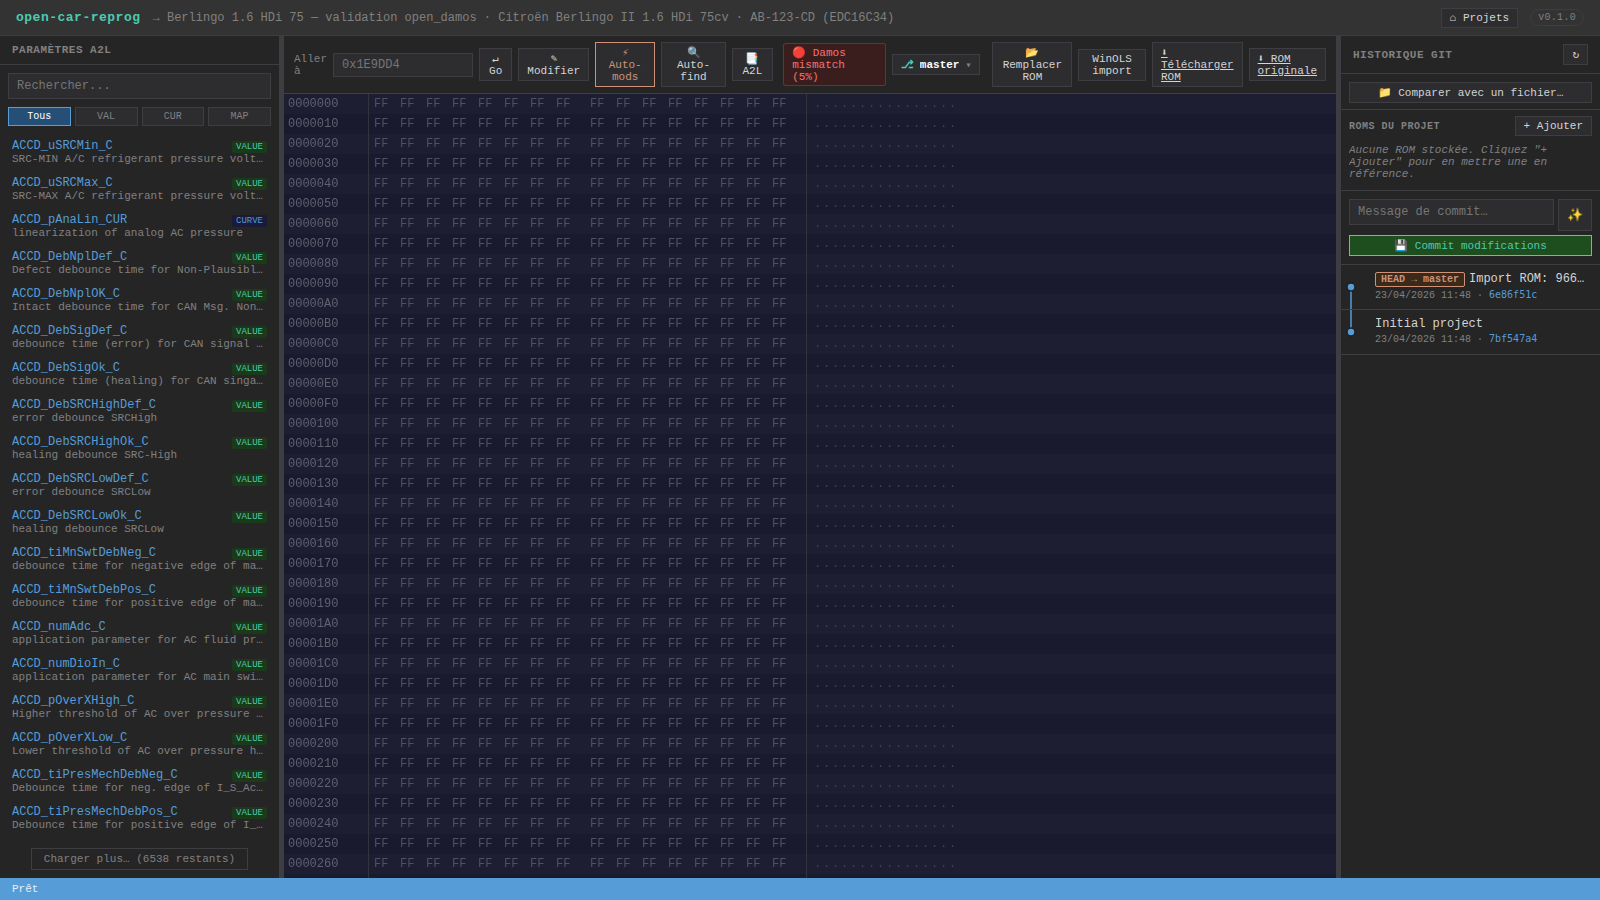
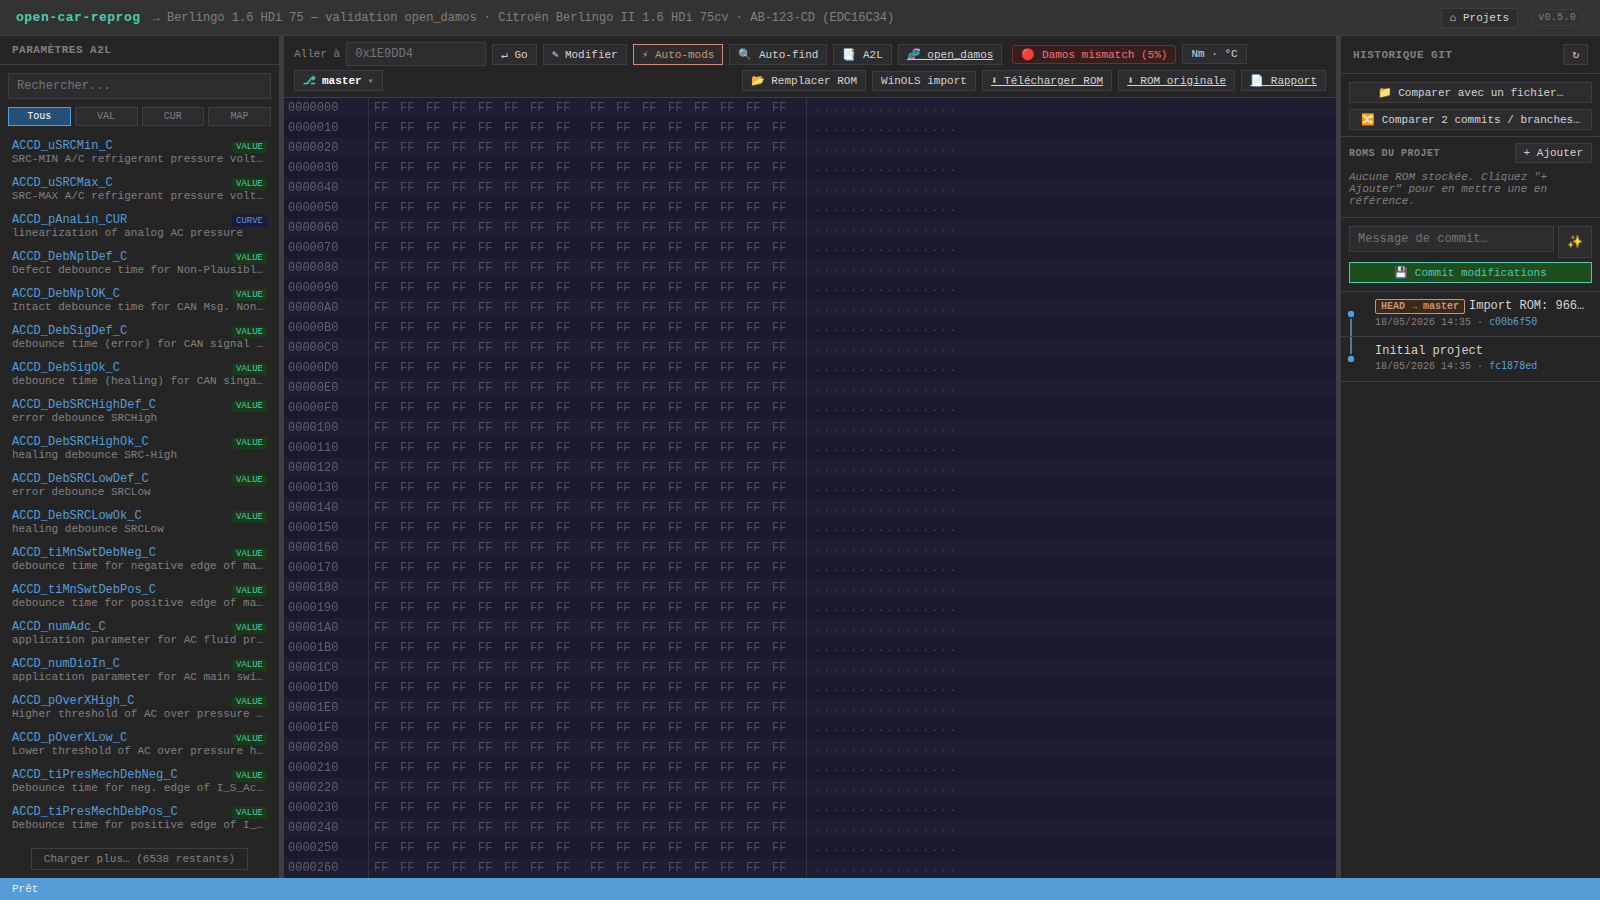
feat: détection variante ROM (75ch/90ch/110ch) + garde-fou Stage 1
- GET /api/projects/:id/rom/variant : détecte DV6BTED4 75ch / DV6TED4 90ch
  / DV6TED4 110ch via la moyenne de EngPrt_trqAPSLim_MAP (open_damos first)
- Modal Auto-mods : banner variante + safeNote dans Stage 1 (ex. "≤ +8% recommandé")
- Border orange si % Stage 1 dépasse safePct ; confirm() bloquant si on passe outre
- Test Playwright : tests/rom-variant-detection.test.js (6 assertions, PASS)

diff --git a/tests/rom-variant-detection.test.js b/tests/rom-variant-detection.test.js
@@ -1,0 +1,153 @@
+// Test ROM variant detection (75ch / 90ch / 110ch) and Stage 1 safety guard.
+// Verifies:
+//   1. /api/projects/:id/rom/variant → 75ch for Berlingo 9663944680.Bin
+//   2. Auto-mods modal shows variant banner ("DV6BTED4 55kW 75ch")
+//   3. Stage 1 confirm() dialog fires when % > safePct (8%)
+//   4. /api/projects/:id/dtc-group → Supprimer / Restaurer round-trip
+//
+// Usage: PORT=3002 node server.js & ; node tests/rom-variant-detection.test.js
+
+const { chromium } = require('playwright');
+const fs = require('fs');
+const path = require('path');
+const assert = require('assert');
+
+const URL = process.env.APP_URL || 'http://localhost:3002';
+const ROM = path.join(__dirname, '..', 'ressources', 'edc16c34', '9663944680.Bin');
+const SHOTS = path.join(__dirname, 'screenshots');
+if (!fs.existsSync(SHOTS)) fs.mkdirSync(SHOTS, { recursive: true });
+
+async function shot(page, name) {
+  const p = path.join(SHOTS, `rom-variant-${name}.png`);
+  await page.screenshot({ path: p });
+  console.log('  📸', name);
+}
+
+(async () => {
+  let projectId = null;
+  const browser = await chromium.launch();
+  const ctx = await browser.newContext({ viewport: { width: 1440, height: 900 } });
+  const page = await ctx.newPage();
+  page.on('console', msg => { if (msg.type() === 'error') console.warn('  [browser]', msg.text()); });
+
+  try {
+    // ── 1. Setup project ──────────────────────────────────────────────────────
+    const r1 = await page.request.post(URL + '/api/projects', {
+      data: { name: 'Berlingo variant-detect test', ecu: 'edc16c34', vehicle: 'Citroën Berlingo 1.6 HDi 75ch' }
+    });
+    const proj = await r1.json();
+    projectId = proj.id;
+    await page.request.post(URL + '/api/projects/' + projectId + '/rom', {
+      multipart: { rom: { name: '9663944680.Bin', mimeType: 'application/octet-stream', buffer: fs.readFileSync(ROM) } }
+    });
+    console.log('  ✓ Project + ROM importé', projectId);
+
+    // ── 2. /rom/variant API ───────────────────────────────────────────────────
+    const vRes = await page.request.get(URL + '/api/projects/' + projectId + '/rom/variant');
+    assert(vRes.ok(), `variant endpoint HTTP ${vRes.status()}`);
+    const vData = await vRes.json();
+    console.log('  Variant API:', JSON.stringify(vData));
+    assert.strictEqual(vData.variant, '75ch', `Expected 75ch, got ${vData.variant}`);
+    assert.strictEqual(vData.safePct, 8, `Expected safePct=8, got ${vData.safePct}`);
+    assert(vData.confidence === 'high', `Expected confidence=high`);
+    console.log('  ✓ Variant 75ch détecté, safePct=8');
+
+    // ── 3. Auto-mods modal — banner variant ───────────────────────────────────
+    await page.goto(URL + '/#/project/' + projectId);
+    await page.waitForSelector('#hex-canvas', { timeout: 6000 });
+    await page.waitForTimeout(1500);
+
+    await page.click('#btn-auto-mods');
+    await page.waitForSelector('#auto-mods-modal', { timeout: 4000 });
+    await page.waitForTimeout(2000); // laisser _detectVariant() arriver
+
+    await shot(page, '01-modal-open');
+
+    const banner = await page.$('#am-variant-banner');
+    assert(banner, '#am-variant-banner missing in DOM');
+    const bannerText = await banner.textContent();
+    console.log('  Banner text:', bannerText.trim());
+    assert(/75ch|DV6BTED4/i.test(bannerText), `Banner should mention 75ch/DV6BTED4, got: "${bannerText}"`);
+    assert(/\+8%/.test(bannerText), `Banner should mention +8%, got: "${bannerText}"`);
+    console.log('  ✓ Variant banner affiché correctement');
+
+    // ── 4. Stage 1 safeNote text ──────────────────────────────────────────────
+    const safeNote = await page.$('#am-s1-safe-note');
+    assert(safeNote, '#am-s1-safe-note missing');
+    const safeText = await safeNote.textContent();
+    console.log('  safeNote text:', safeText.trim());
+    assert(/8%|DV6BTED4/i.test(safeText), `safeNote should mention 8% or DV6BTED4, got: "${safeText}"`);
+    console.log('  ✓ safeNote variante visible');
+
+    // Wait for _loadStage1Deltas to settle (it runs after _detectVariant)
+    // Stage 1 delta sets all inputs to 0 (ROM is stock). We need to fill AFTER.
+    await page.waitForFunction(() => {
+      const el = document.querySelector('#s1-pct-AccPed_trqEngHiGear_MAP');
+      return el && el.value !== undefined; // element exists and delta has run
+    }, { timeout: 5000 });
+    await page.waitForTimeout(500); // give stage1-delta fetch a moment to write
+
+    // ── 5. Warning border when % > safePct ───────────────────────────────────
+    const firstPctInput = await page.$('#s1-pct-AccPed_trqEngHiGear_MAP');
+    assert(firstPctInput, '#s1-pct-AccPed_trqEngHiGear_MAP not found');
+    // Set value to 20 via evaluate to avoid native input validation interfering
+    await firstPctInput.evaluate(el => { el.value = '20'; });
+    await firstPctInput.dispatchEvent('input');
+    await page.waitForTimeout(200);
+    const borderColor = await firstPctInput.evaluate(el => el.style.borderColor);
+    console.log('  borderColor at 20%:', borderColor);
+    assert(borderColor && borderColor !== '', 'Border should change when % > safePct');
+    console.log('  ✓ Border warning à 20% (dépasse safePct=8)');
+
+    // Verify value is actually 20 in JS context
+    const inputVal = await firstPctInput.evaluate(el => el.value);
+    assert.strictEqual(inputVal, '20', `Input value should be 20, got ${inputVal}`);
+
+    // ── 6. Confirm dialog when applying with high % ───────────────────────────
+    let confirmMsg = null;
+    page.once('dialog', async dialog => {
+      confirmMsg = dialog.message();
+      console.log('  ✓ Confirm dialog :', confirmMsg.split('\n')[0]);
+      await dialog.dismiss(); // annuler → ne pas appliquer
+    });
+    const applyBtn = await page.$('button:has-text("Appliquer Stage 1")');
+    assert(applyBtn, '"Appliquer Stage 1" button not found');
+    await applyBtn.click();
+    await page.waitForTimeout(1200);
+    assert(confirmMsg !== null, 'Confirm dialog should have fired when % > safePct');
+    assert(/Variante|DV6BTED4|limite/i.test(confirmMsg), 'Confirm should mention variant: ' + confirmMsg);
+    console.log('  ✓ Confirm dialog bloque l\'application si % excessif');
+
+    await shot(page, '02-stage1-safeguard');
+
+    // ── 7. DTC group — suppression round-trip ─────────────────────────────────
+    // Adresses EGR (hex) : 0x1C677A → 0x1C6781 (8 params)
+    const EGR_ADDRS = Array.from({ length: 8 }, (_, i) => 0x1C677A + i);
+
+    const suppressRes = await page.request.post(URL + '/api/projects/' + projectId + '/dtc-group', {
+      data: { addresses: EGR_ADDRS, restore: false }
+    });
+    assert(suppressRes.ok(), `dtc-group suppress HTTP ${suppressRes.status()}`);
+    const suppressData = await suppressRes.json();
+    assert.strictEqual(suppressData.ok, true);
+    assert(suppressData.changed > 0, `Expected >0 changed, got ${suppressData.changed}`);
+    console.log(`  ✓ DTC EGR supprimés (${suppressData.changed} bytes)`);
+
+    const restoreRes = await page.request.post(URL + '/api/projects/' + projectId + '/dtc-group', {
+      data: { addresses: EGR_ADDRS, restore: true }
+    });
+    assert(restoreRes.ok());
+    const restoreData = await restoreRes.json();
+    assert(restoreData.changed > 0, `Expected >0 restored`);
+    console.log(`  ✓ DTC EGR restaurés (${restoreData.changed} bytes)`);
+
+    await shot(page, '03-dtc-ui');
+
+    console.log('\n  ✅ rom-variant-detection PASS');
+  } finally {
+    if (projectId) {
+      try { await page.request.delete(URL + '/api/projects/' + projectId); } catch {}
+    }
+    await browser.close();
+  }
+})();

diff --git a/public/js/components/auto-mods.js b/public/js/components/auto-mods.js
@@ -297,11 +297,37 @@ export class AutoMods {
     overlay.addEventListener('click', e => { if (e.target === overlay) this._close(); });
     overlay.querySelector('#am-close').addEventListener('click', () => this._close());
 
+    this._romVariant = null; // sera rempli par _detectVariant()
     this._scan();
     this._bindButtons();
     this._loadTemplates();
-    this._loadStage1Deltas();
+    this._detectVariant().then(() => {
+      this._loadStage1Deltas();
+    });
     this._loadPopBangCurrent();
+  }
+
+  // Détecte la variante de puissance (75ch / 90ch / 110ch) via l'endpoint serveur.
+  // Affiche un badge dans l'en-tête et ajuste les % par défaut Stage 1.
+  async _detectVariant() {
+    const bannerEl = this._el?.querySelector('#am-variant-banner');
+    try {
+      const res = await fetch(`/api/projects/${this.projectId}/rom/variant`);
+      if (!res.ok) return;
+      const data = await res.json();
+      this._romVariant = data;
+
+      if (bannerEl && data.variant !== 'unknown') {
+        const colors = { '75ch': '#569cd6', '90ch': '#4ec9b0', '110ch': '#ce9178' };
+        const c = colors[data.variant] || 'var(--accent)';
+        bannerEl.innerHTML = `
+          <span style="background:rgba(${data.variant==='75ch'?'86,156,214':'78,201,176'},0.15);
+            border:1px solid ${c};border-radius:12px;padding:3px 10px;font-size:11px;color:${c}">
+            ⚡ Variante détectée : <strong>${data.label}</strong>
+            — Stage 1 limité à <strong>+${data.safePct}%</strong> recommandé
+          </span>`;
+      }
+    } catch { /* non-fatal */ }
   }
 
   async _loadTemplates() {
@@ -408,10 +434,11 @@ export class AutoMods {
 
     return `
       <div class="modal" style="min-width:580px;max-width:720px;max-height:85vh;display:flex;flex-direction:column">
-        <div style="display:flex;align-items:center;margin-bottom:16px">
+        <div style="display:flex;align-items:center;margin-bottom:8px">
           <h2 style="flex:1">Modifications automatiques — ${this.ecu.toUpperCase()}</h2>
           <button class="btn btn-sm" id="am-close">✕</button>
         </div>
+        <div id="am-variant-banner" style="margin-bottom:10px;min-height:22px"></div>
         <div style="overflow-y:auto;flex:1">
           <div class="am-section">
             <div class="am-cat">🚗 Templates véhicule</div>
@@ -525,9 +552,32 @@ export class AutoMods {
     const statusEl = this._el.querySelector('#am-status-stage1');
     if (statusEl) statusEl.textContent = '';
 
-    // Global percentage slider
+    // Safepct selon variante détectée (mis à jour après _detectVariant)
+    const safePct = () => this._romVariant?.safePct ?? 15;
+
     const wrap = document.createElement('div');
     wrap.style.cssText = 'display:flex;flex-direction:column;gap:8px;margin-top:4px';
+
+    // Bandeau sécurité variante (rempli par _detectVariant via banner global)
+    const safeNote = document.createElement('div');
+    safeNote.id = 'am-s1-safe-note';
+    safeNote.style.cssText = 'font-size:10px;color:var(--text-dim)';
+    safeNote.textContent = 'Détection variante en cours…';
+
+    // Mise à jour du bandeau dès que la variante est connue
+    const variantPollInterval = setInterval(() => {
+      if (!this._el) { clearInterval(variantPollInterval); return; }
+      if (this._romVariant) {
+        clearInterval(variantPollInterval);
+        const v = this._romVariant;
+        if (v.variant !== 'unknown') {
+          safeNote.textContent = `Variante ${v.label} — recommandé ≤ +${v.safePct}% · au-delà = risque mécanique`;
+          safeNote.style.color = 'var(--text-dim)';
+        } else {
+          safeNote.textContent = 'Variante non détectée — vérifiez les % manuellement.';
+        }
+      }
+    }, 300);
 
     // Per-map rows
     const mapInputs = {};
@@ -552,6 +602,19 @@ export class AutoMods {
       pctInput.min = -50; pctInput.max = 50; pctInput.step = 1;
       pctInput.style.cssText = 'width:56px;padding:2px 4px;background:var(--bg2);border:1px solid var(--border);color:var(--text);border-radius:3px;text-align:right';
 
+      // Avertissement si % dépasse le seuil safe pour la variante
+      pctInput.addEventListener('input', () => {
+        const val = Number(pctInput.value);
+        const safe = safePct();
+        if (val > safe) {
+          pctInput.style.borderColor = 'var(--warn)';
+          pctInput.title = `⚠ Dépasse la limite recommandée pour la variante détectée (+${safe}%)`;
+        } else {
+          pctInput.style.borderColor = '';
+          pctInput.title = '';
+        }
+      });
+
       const pctLabel = document.createElement('span');
       pctLabel.textContent = '%';
       pctLabel.style.color = 'var(--text-dim)';
@@ -562,6 +625,7 @@ export class AutoMods {
     });
 
     mapRows.forEach(r => wrap.appendChild(r));
+    wrap.appendChild(safeNote);
 
     // Apply button
     const applyBtn = document.createElement('button');
@@ -569,6 +633,14 @@ export class AutoMods {
     applyBtn.textContent = 'Appliquer Stage 1';
     applyBtn.style.marginTop = '4px';
     applyBtn.addEventListener('click', async () => {
+      // Blocage sécurité : si variante connue et % excessif, confirmer
+      const safe = safePct();
+      const maxEntered = Math.max(...STAGE1_MAPS.map(m => mapInputs[m.name].check.checked ? Number(mapInputs[m.name].pctInput.value) : 0));
+      if (this._romVariant?.variant && this._romVariant.variant !== 'unknown' && maxEntered > safe) {
+        const ok = confirm(`⚠ Variante détectée : ${this._romVariant.label}\n\nLe % sélectionné (+${maxEntered}%) dépasse la limite recommandée (+${safe}%) pour ce moteur.\n\nDépasser ce seuil peut endommager la mécanique.\n\nContinuer quand même ?`);
+        if (!ok) return;
+      }
+
       applyBtn.disabled = true;
       applyBtn.textContent = 'Application…';
 

diff --git a/server.js b/server.js
@@ -1089,6 +1089,61 @@ app.patch('/api/projects/:id/rom/scalar', async (req, res) => {
   } catch (e) { res.status(500).json({ error: e.message }); }
 });
 
+// Détecte la variante de puissance du ROM (75ch / 90ch / 110ch) via
+// la cartographie EngPrt_trqAPSLim_MAP localisée par open_damos.
+// Cette MAP est plate (toutes cellules égales) — sa valeur indique le
+// plafond protection moteur configuré par PSA pour chaque variante.
+// Valeurs de référence (raw SWORD, factor 0.1 Nm) :
+//   < 4200  → DV6BTED4  55kW  75ch
+//   4200-4700 → DV6TED4 66kW  90ch
+//   > 4700  → DV6TED4   81kW  110ch
+app.get('/api/projects/:id/rom/variant', async (req, res) => {
+  try {
+    const proj = await pm.get(req.params.id);
+    if (!proj) return res.status(404).json({ error: 'Project not found' });
+    if (!proj.hasRom) return res.json({ variant: 'unknown', reason: 'no ROM' });
+
+    const rom = new Uint8Array(fs.readFileSync(pm.getRomPath(proj.id)));
+
+    // Localiser EngPrt_trqAPSLim_MAP via open_damos
+    let addr = null;
+    try {
+      const od = loadOpenDamos(proj.ecu);
+      if (od) {
+        const relocated = relocateOpenDamos(od, rom);
+        const e = relocated.find(r => r.name === 'EngPrt_trqAPSLim_MAP');
+        if (e && e.addressSource !== 'default-fallback') addr = e.address;
+      }
+    } catch { /* non-fatal */ }
+
+    // Fallback : adresse catalog (ori.BIN)
+    if (addr === null) {
+      const ecuDef = getEcu(proj.ecu);
+      addr = ecuDef?.stage1Maps?.find(m => m.name === 'EngPrt_trqAPSLim_MAP')?.address ?? null;
+    }
+
+    if (addr === null) return res.json({ variant: 'unknown', reason: 'map not found' });
+
+    let mapAvg = null;
+    try {
+      const mapData = readMapData(rom, addr);
+      mapAvg = mapData.data.reduce((s, v) => s + v, 0) / mapData.data.length;
+    } catch { return res.json({ variant: 'unknown', reason: 'map read error' }); }
+
+    // Classification par valeur moyenne du plafond protection
+    let variant, label, safePct;
+    if (mapAvg < 4200) {
+      variant = '75ch'; label = 'DV6BTED4 55kW 75ch'; safePct = 8;
+    } else if (mapAvg < 4700) {
+      variant = '90ch'; label = 'DV6TED4 66kW 90ch'; safePct = 12;
+    } else {
+      variant = '110ch'; label = 'DV6TED4 81kW 110ch'; safePct = 15;
+    }
+
+    res.json({ variant, label, mapAvg: Math.round(mapAvg), addr, safePct, confidence: addr ? 'high' : 'low' });
+  } catch (e) { res.status(500).json({ error: e.message }); }
+});
+
 // Retourne le delta moyen (% vs stock) de chaque MAP Stage 1 du projet.
 // Utilisé par le modal auto-mods pour pré-remplir les sliders au bon %.
 app.get('/api/projects/:id/rom/stage1-delta', async (req, res) => {